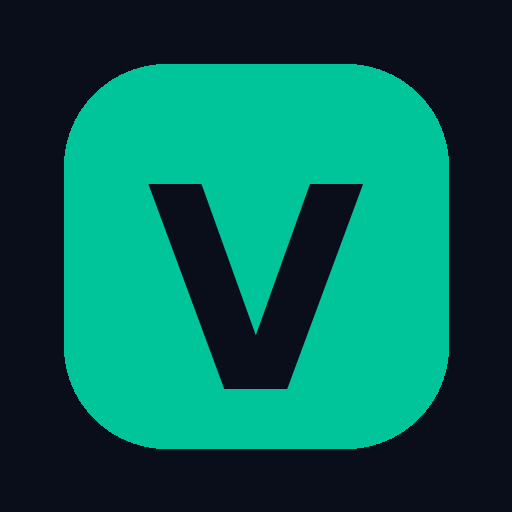
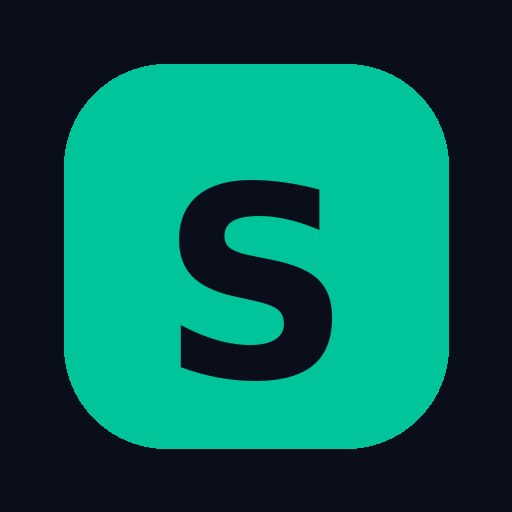
Add files via upload

Changed region(s): [[0.2812, 0.3438, 0.7188, 0.7812]]

diff --git a/index.html b/index.html
@@ -183,7 +183,7 @@ select option{background:var(--surface2)}
 <!-- SETUP VIEW -->
 <div id="view-setup">
   <div class="setup-logo">
-    <div class="logo-v">V</div>
+    <div class="logo-v">S</div>
     <p>Personal budget tracker</p>
   </div>
   <div id="setup-new-month-alert" class="alert" style="display:none">
